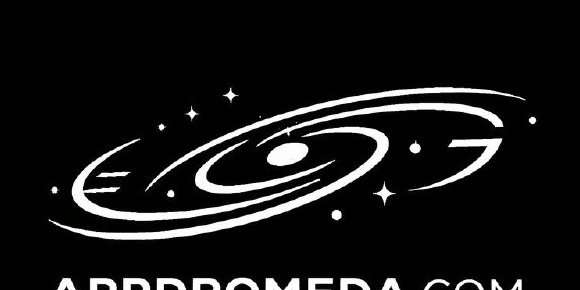
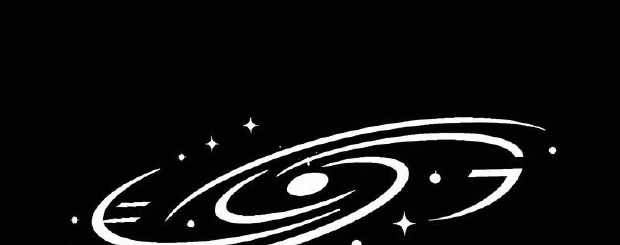
Refine hero watermark placement

diff --git a/index.html b/index.html
@@ -119,13 +119,13 @@
       width: min(72vw, 780px);
       opacity: 0.08;
       filter: drop-shadow(0 0 36px rgba(255,255,255,0.08));
-      transform: translateY(-10px);
+      transform: translateY(-118px);
     }
     @media (max-width: 768px) {
       .hero-watermark img {
         width: min(88vw, 560px);
         opacity: 0.07;
-        transform: translateY(6px);
+        transform: translateY(-92px);
       }
     }
   </style>
